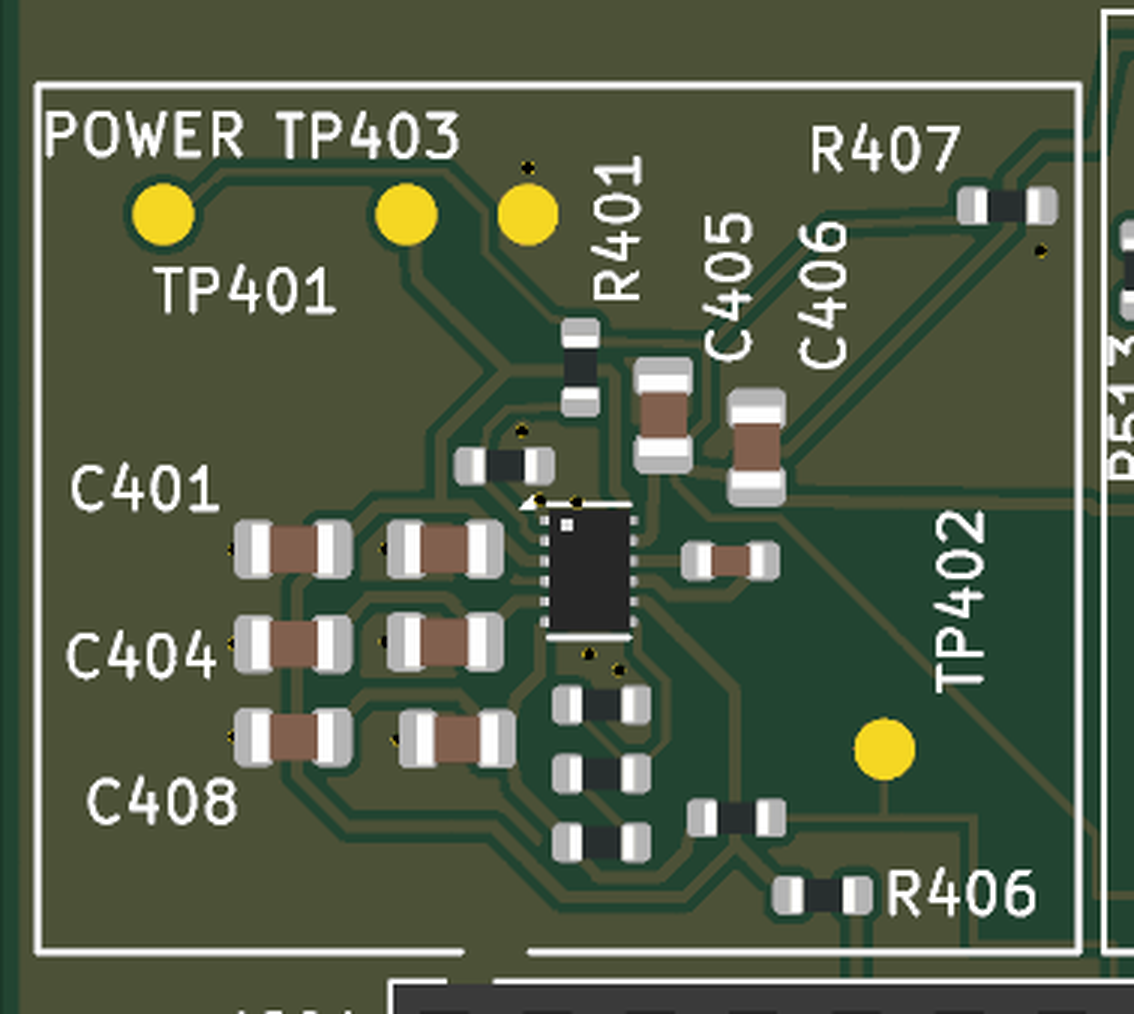
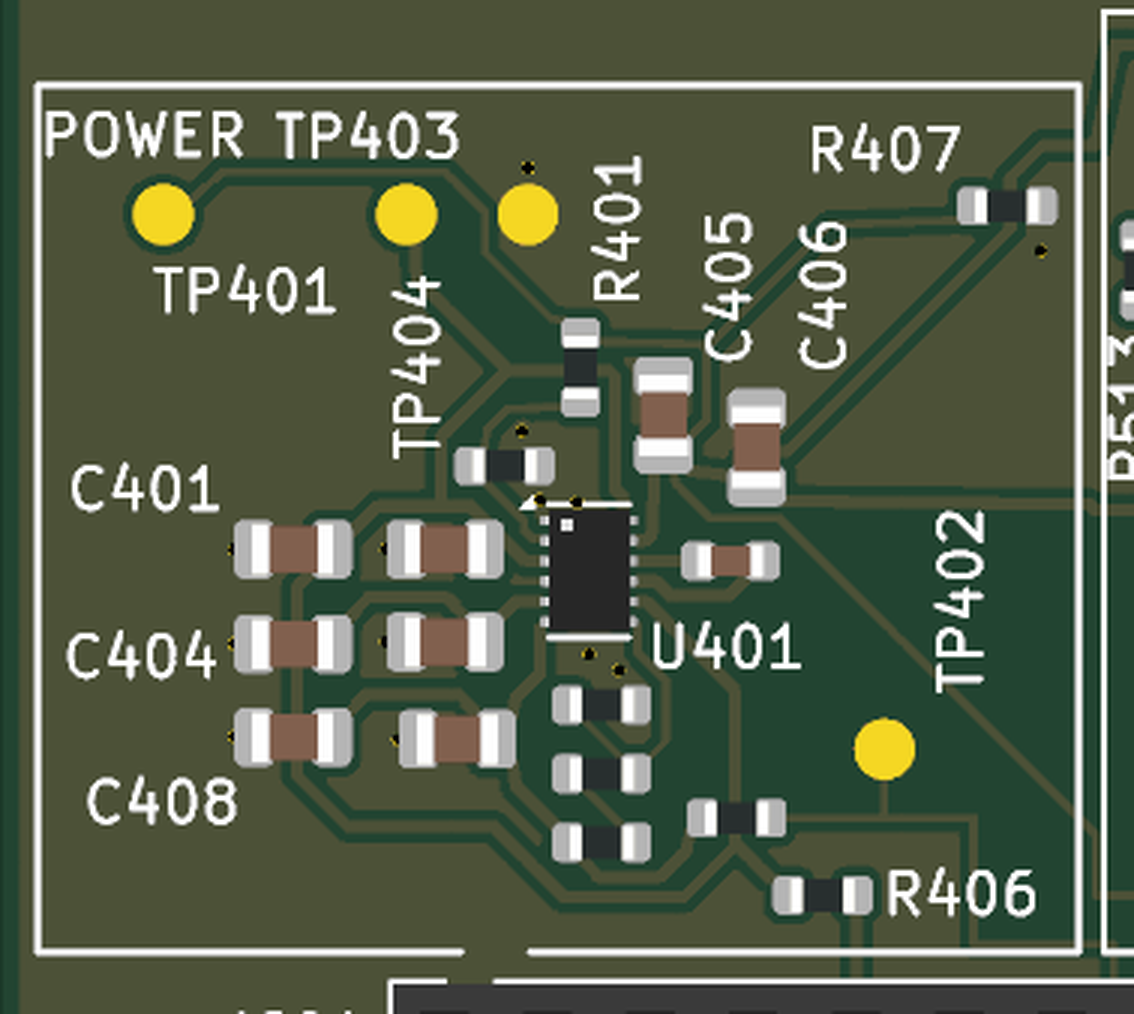
hardware: BNC labels readable in 3D, ICs/connectors/test points labelled again; silkread 7
Silk only. CH1 IN, CH2 IN, AWG OUT centred 2.75 mm toward the board from
each BNC origin; U301, U401, U501, U502, J501, TP201, TP501, TP404,
R108, R208 back on the silk. Fab: F_Silkscreen only; DRC and LR rows
unchanged; renders, GATE3 and crops regenerated.

Claude-Session: https://claude.ai/code/session_01GL7oYC3LK69sf7Yy9PtEQy

Changed region(s): [[0.3395, 0.2751, 0.4012, 0.4586], [0.5556, 0.6114, 0.7099, 0.6726]]

diff --git a/hardware/afe-proto/v2/layout/gate3/GATE3.md b/hardware/afe-proto/v2/layout/gate3/GATE3.md
@@ -1,8 +1,8 @@
 # Gate 3 package: COPPIA AFE-2 REV A - v2 AFE integrated layout
 
-Generated by `v2/layout/gate3/build_gate3.sh` (`gate3.py`) at 2026-11-15T17:40. **Every number below is regenerated from the board and the repo by that one command; rerun it when the board changes.** Nothing in this file is typed in; a figure that is not from a repo file is marked *(check)*.
+Generated by `v2/layout/gate3/build_gate3.sh` (`gate3.py`) at 2026-11-15T17:53. **Every number below is regenerated from the board and the repo by that one command; rerun it when the board changes.** Nothing in this file is typed in; a figure that is not from a repo file is marked *(check)*.
 
-- Board: `hardware/afe-proto/v2/layout/integrated/afe-v2-integrated.kicad_pcb`, sha256 `372038ce71879355...`, 112 footprints, 370 track segments, 40 vias, 131 nets.
+- Board: `hardware/afe-proto/v2/layout/integrated/afe-v2-integrated.kicad_pcb`, sha256 `2d8665bb23373e76...`, 112 footprints, 370 track segments, 40 vias, 131 nets.
 - Tree: git is not in the PCB image, so no commit is recorded; the board's sha256 above is the identity of what was checked.
 - Checks: `pcbtools` rules (`--config v2_layout`), kicad-cli 10.0.8 DRC, in the pinned PCB image.
 
